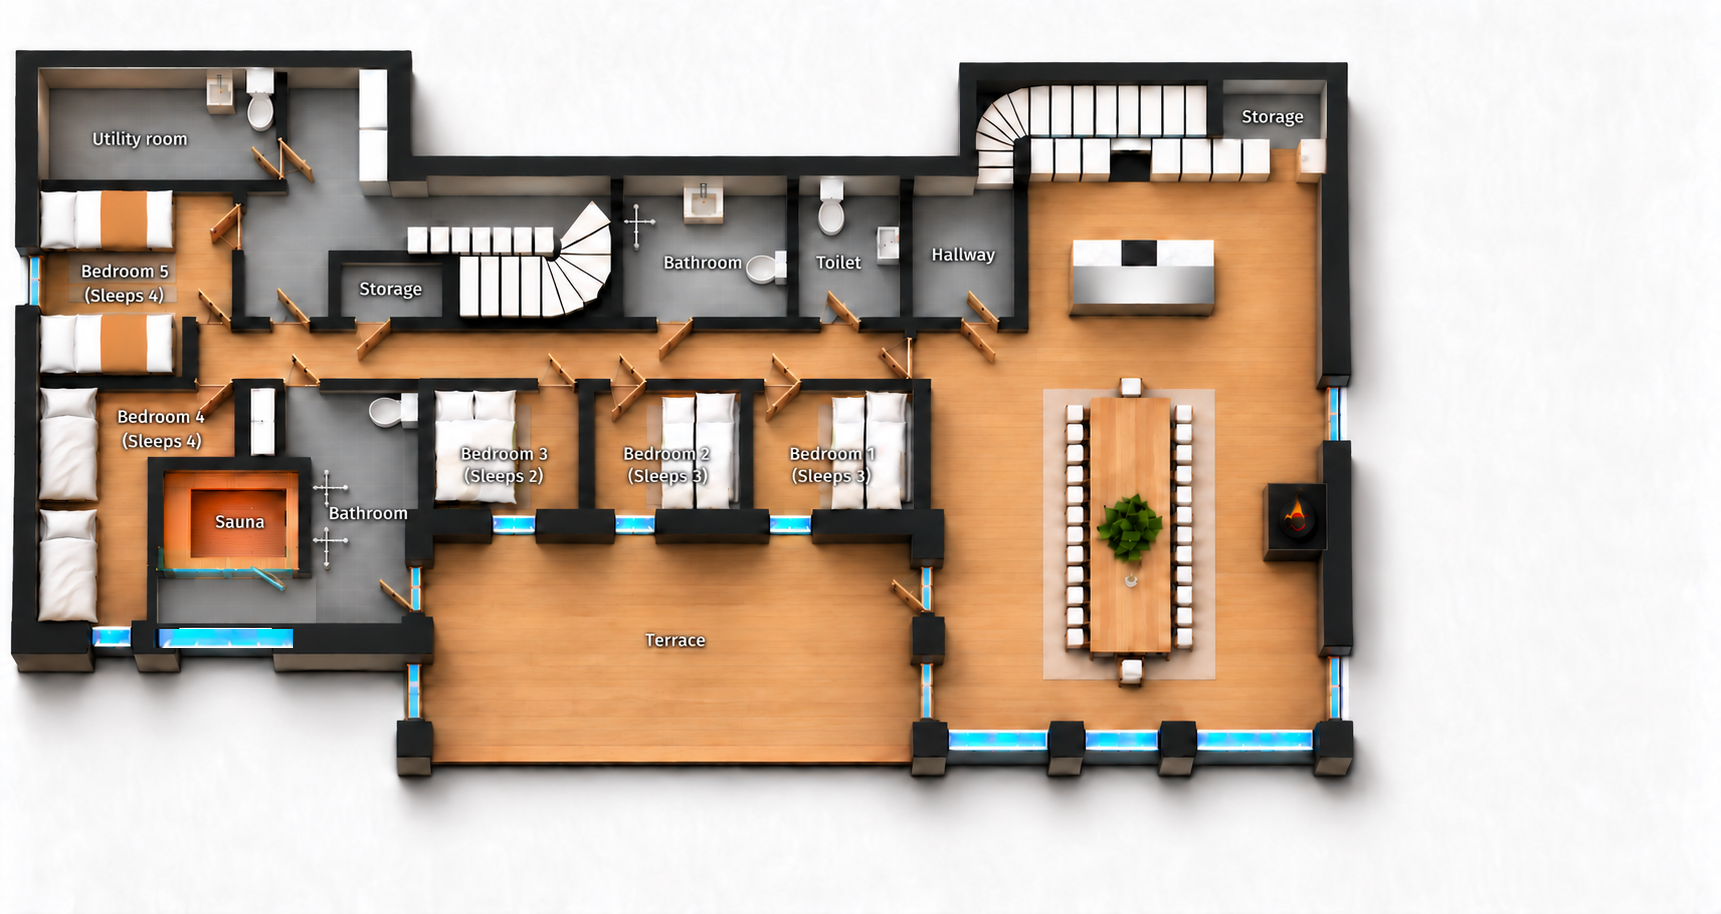
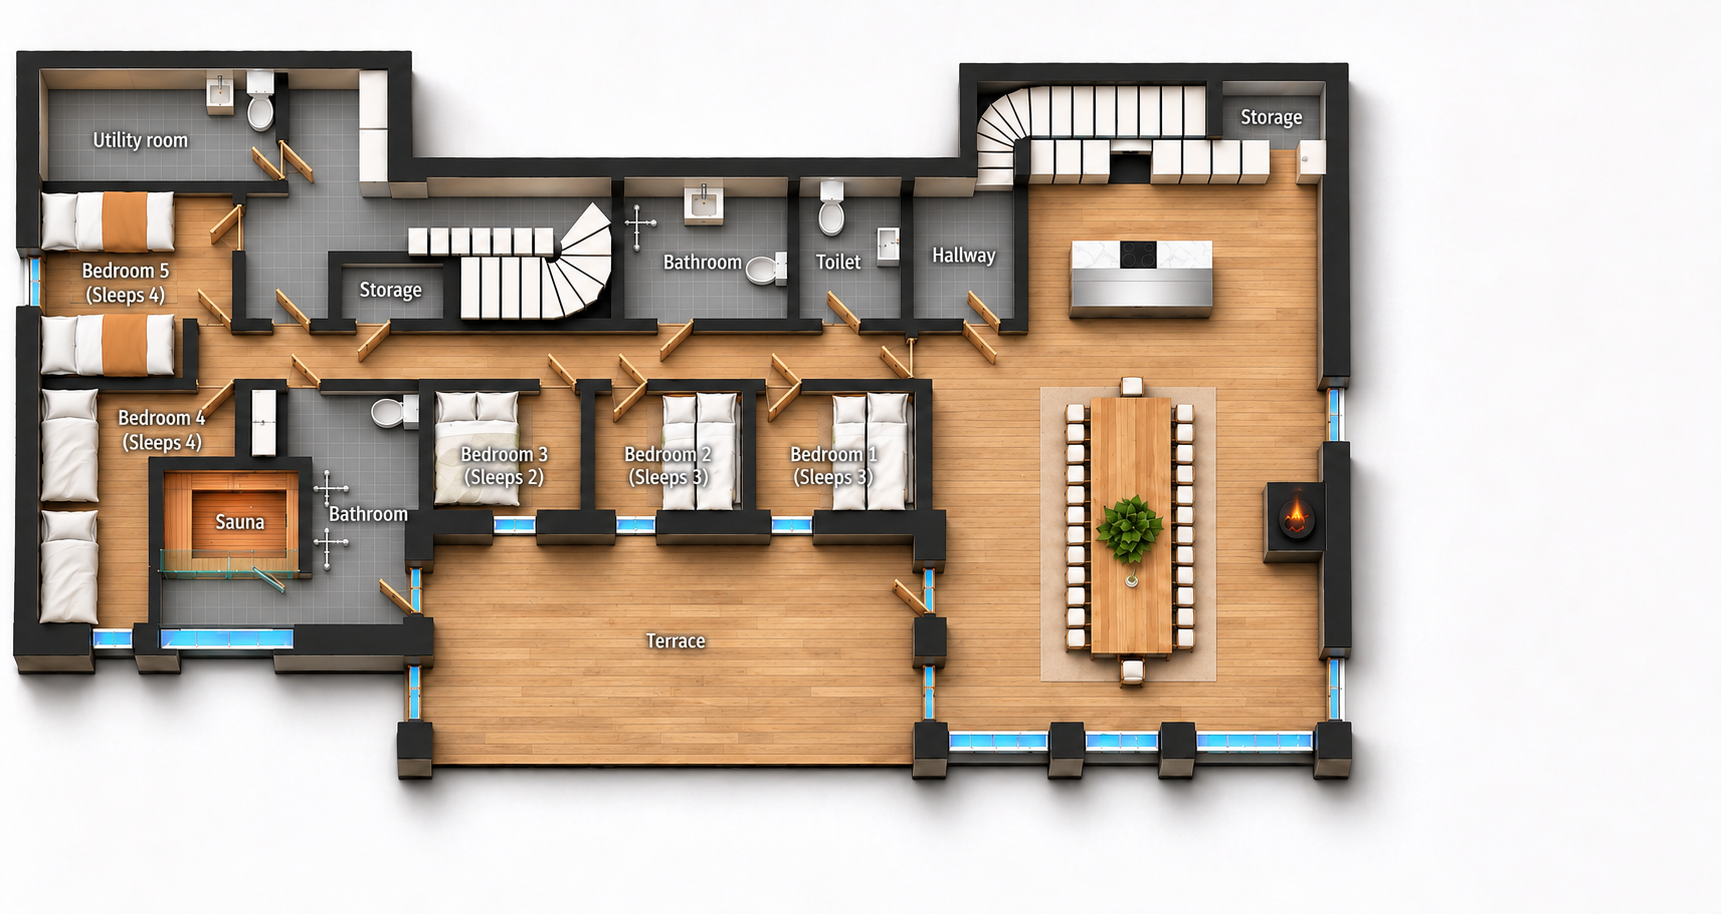
Remove navigation panel and refine lower-floor rendering

Changed region(s): [[0.0, 0.0613, 0.8007, 0.8578], [0.0308, 0.0613, 0.2464, 0.1225]]

diff --git a/src/app/mobile.css b/src/app/mobile.css
@@ -6,10 +6,10 @@
   font-weight: 400;
   font-display: swap;
 }
-.retreat-header-pages nav { font-family: "Turu Crown Menu", "Cormorant Garamond", Georgia, serif; font-weight: 400; letter-spacing: normal; text-transform: none; color: #171e28; background: #f2f0eb; padding: .2rem .7rem; }
-.retreat-header-pages nav a, .retreat-header-pages nav a[aria-current="page"] { color: #171e28; }
-.retreat-header-pages nav a:hover { color: #79562f; }
-.retreat-header-pages nav a[aria-current="page"]::after { background: #79562f; }
+.retreat-header-pages nav { font-family: "Turu Crown Menu", "Cormorant Garamond", Georgia, serif; font-weight: 400; letter-spacing: normal; text-transform: none; color: #fff; background: transparent; padding: .2rem .7rem; }
+.retreat-header-pages nav a { color: inherit; }
+.retreat-header-pages nav a:hover, .retreat-header-pages nav a[aria-current="page"] { color: #d8b687; }
+.retreat-header-pages nav a[aria-current="page"]::after { background: #d8b687; }
 .retreat-home-page .retreat-header-pages { mix-blend-mode: normal; }
 .retreat-menu-toggle { display: none; }
 .retreat-floor-plan-drawing { width: 100%; }
@@ -67,7 +67,7 @@
     display: none; position: absolute; top: 100%; left: 0; right: 0;
     width: 100%; max-height: calc(100dvh - 88px); margin: 0; padding: 1rem var(--mobile-gutter) 1.5rem;
     grid-template-columns: minmax(0, 1fr); gap: .25rem 1rem;
-    overflow: auto; background: #f2f0eb; color: #171e28; font-size: clamp(1.25rem, 3.5vw, 1.5rem);
+    overflow: auto; background: #171e28; color: #fff; font-size: clamp(1.25rem, 3.5vw, 1.5rem);
     border-top: 1px solid rgb(216 182 135 / 25%);
     box-shadow: 0 14px 24px rgb(9 14 20 / 18%);
   }

diff --git a/docs/floor-plans.md b/docs/floor-plans.md
@@ -1,5 +1,34 @@
 # Three floor plans
 
+## Main-floor style and sharper rendering, 10 November 2026
+
+Owner requested a further quality improvement after the local sauna/bedding fixes.
+Built-in imagegen used the current lower-floor plan as the layout authority and
+the main-floor plan as a material/rendering reference. Selected Norwegian output:
+`exec-0ddbf6e4-2ae4-474f-a505-24e82b6f4ecc.png`; English:
+`exec-6e3e8040-bdc6-4170-9ddc-23e63c53f47d.png`, in the generated-images directory
+listed below. Copied directly to the two existing lower-floor public assets.
+The outputs retain 1721 × 914 pixels; they improve rendered detail rather than
+increasing pixel dimensions. No post-generation scaling or lossy encoding.
+The main-floor and loft assets remain unchanged. Reviewed both outputs for room
+numbers, bunk arrangements, single bedding, sauna tiles/glass door, windows,
+cabinet access gap, furniture and overall layout.
+
+### Final image prompt
+
+```text
+Use case: style-transfer and faithful high-detail restoration.
+IMAGE 1 is the LOWER FLOOR edit target. IMAGE 2 is MAIN FLOOR STYLE AND QUALITY REFERENCE ONLY, not a layout reference.
+Re-render image1 in very high definition, preferably 3442 x 1828 pixels, same aspect ratio and complete canvas. Match image2's refined architectural render: natural muted honey oak parquet with fine visible grain and individual plank joints, crisp gray bathroom tile grid, softly realistic cream-white bedding and pillow folds, finely detailed white ceramic sinks/toilets with taps, clean charcoal walls with subtle bevels/shadows, slim blue glazed windows with clear frames, warm natural shadows, crisp readable white labels. Remove image1's blur, smudged edges, excessively saturated orange tones and flat pasted-texture areas. Sharp fine detail without sharpening halos or noise. The lower plan must look like the SAME illustrator/rendering style as the main-floor reference.
+HARD CONTENT LOCK: image1 room and furniture geometry is authoritative. Retain the exact full outline, proportions, door and window positions and widths, internal walls, bathrooms, two staircases, kitchen and island, exact cabinet row and single-cabinet-width gap at upper right to storage, terrace, fireplace, dining table and exactly twelve chairs per long side plus one each end (26 total).
+Retain five numbered bedrooms and all current sleeping furniture. Bedroom 4 TWO visible SINGLE BEDS each with ONE white pillow and ONE white duvet, not double beds. Bedroom 5 beds as input. Bedroom 3 double bed, Bedrooms1/2 recognizable three-sleeper bunk-bed arrangements as input. Sauna front is glass with ONE clear glass door; floor south of sauna is matching bathroom GRAY TILES continuing into the bathroom, no blue floor and no partition wall in this open area. Keep current widened sauna-front exterior window.
+All labels remain in Norwegian, VERBATIM at same positions with same consistent readable font. Specifically the three center bedrooms from left to right are 'Soverom 3 (2 soveplasser)', 'Soverom 2 (3 soveplasser)', 'Soverom 1 (3 soveplasser)'; do not misnumber them. Retain all other labels from image1 exactly. No text from image2 may be copied.
+Do not add/remove/move any content, no layout redesign, no crop, no furniture changes. ONLY higher quality rendering, finer detail and main-floor-matching color/material style. Render the FULL target lower-floor canvas at high resolution.
+```
+
+The English run uses the identical prompt with English labels and the explicit
+center-room text “Bedroom 3 (Sleeps 2)”, “Bedroom 2 (Sleeps 3)”, “Bedroom 1 (Sleeps 3)”.
+
 ## Sauna tiles and bedroom 4 single bedding, 10 November 2026
 
 Updated both `public/images/floor-plan-lower.png` and

diff --git a/README.md b/README.md
@@ -15,8 +15,8 @@ The shared footer lists both phone numbers and info@turucrown.no under Contact u
 with compact labelled phone and email links in both languages.
 The header keeps the original mountain/wordmark artwork and renders its two
 subtitles as larger, crisp live text for readability on phones and desktops.
-Desktop navigation uses compact Cormorant Garamond lettering (18–21px), with dark
-text on a light panel, and wraps within the header on smaller laptop screens,
+Desktop navigation uses compact Cormorant Garamond lettering (18–21px), with light
+text directly on the existing dark header and no separate panel, and wraps on smaller laptop screens,
 keeping every page link accessible. The logo
 keeps “EXCLUSIVE MOUNTAIN LODGE” on one line and “TURUFJELL · NORWAY” below it.
 Menu typography matches the owner's Chalet 1551 reference: regular-weight
